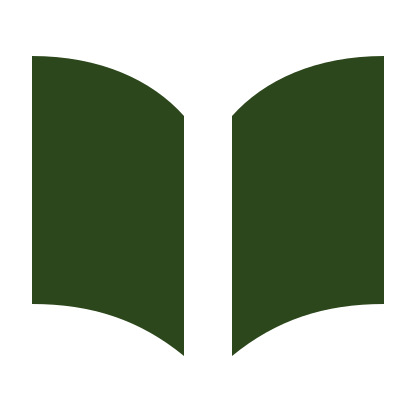
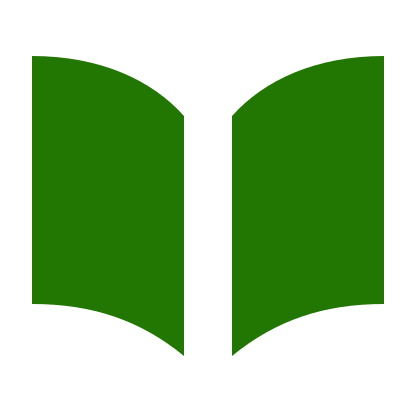
brand: energiza a oliva da marca e limpa metadados de aprovação
A cor da marca acompanha a paleta revisada do site — oliva #227702
(accent claro, croma alto) e reverse #eaece6 — mantendo o concurseiro
alerta; geometria Miolo intacta, alpha dos PNGs byte a byte idêntico.
Os desc dos SVGs perdem a data de aprovação, ruído de processo que não
pertence a assets públicos.

Generated with [Devin](https://devin.ai)

diff --git a/brand/README.md b/brand/README.md
@@ -22,7 +22,8 @@ Os SVGs têm fundo transparente, geometria editável, letras em contornos e
 nenhuma dependência de fontes ou recursos externos. A cor é definida por
 `color` na raiz e aplicada por `currentColor`. Assinatura: `viewBox` de
 568 × 132; símbolo: 104 × 104. Preservar a proporção e todo o respiro dessas
-caixas. Os PNGs são cópias exatas dos apresentados no estudo.
+caixas. Os PNGs são exportações RGBA transparentes dos SVGs canônicos via
+`rsvg-convert` (larguras de 1200 e 416 px).
 
 ## Desenho e procedência
 
@@ -41,29 +42,50 @@ foram preservadas.
 
 | Cor | Hex | Origem |
 | --- | --- | --- |
-| Oliva | `#2c471c` | Conversão sRGB de `accent` claro / `olive-700` |
-| Claro | `#e6ece1` | Conversão sRGB de `ink` escuro |
+| Oliva | `#227702` | Conversão sRGB de `accent` claro / `olive-600`, `oklch(0.5 0.16 140)` |
+| Claro | `#eaece6` | Conversão sRGB de `ink` escuro, `oklch(0.94 0.008 120)` |
 | Preto | `#000000` | Reprodução monocromática |
 
-As pranchas usam papel `#f4f6ee` e fundo escuro `#0d1609`, derivados dos
-respectivos tokens `paper`. Esses fundos não fazem parte dos logos.
+A cor da marca deriva dos tokens do site e é re-derivada quando eles mudam;
+a geometria permanece fixa. A oliva vigorosa acompanha o propósito da paleta:
+manter o concurseiro alerta durante o estudo. O `accent` do tema escuro do
+site converte para `#68d54e` (`oklch(0.78 0.2 140)`) — não é cor dos ativos
+canônicos; em fundos escuros usa-se a versão clara (reverse). Medido em
+sRGB, o contraste da oliva sobre o papel claro é de 5,3:1 e o do claro
+sobre o papel escuro é de 15,4:1.
+
+As pranchas históricas dos estudos usam papel `#f4f6ee` e fundo escuro
+`#0d1609`, conversões dos tokens `paper` da época; os tokens `paper` atuais
+convertem para `#f8f8f5` (claro) e `#10160f` (escuro). Esses fundos não
+fazem parte dos logos.
 O lettering é vetorial próprio, não Source Serif 4. Os rótulos históricos
 nas pranchas usam Inter sob SIL OFL 1.1; nenhum arquivo de fonte é distribuído.
 
 ## Uso e verificações
 
 As [reduções da rodada 02](studies/2026-11-26-round-02/reductions.png)
-mostram Miolo em 16, 24, 32 e 48 px nos fundos claro e escuro. O intervalo
-central permanece visível a 16 px nesta renderização. Para a assinatura,
+mostram Miolo em 16, 24, 32 e 48 px nos fundos claro e escuro — na oliva
+anterior, por serem artefatos históricos. O intervalo central permanece
+visível a 16 px nesta renderização. Para a assinatura,
 manter mínimo provisório de 160 px de largura e preferir 176 px no cabeçalho.
 Manter provisoriamente espaço externo equivalente a metade da altura visível
 do `o`. Esses limites vêm da inspeção em tela; não houve teste com usuários,
 impressão ou integração real no site.
 
+As reduções foram inspecionadas novamente na oliva atual: símbolo a 16, 24,
+32 e 48 px e assinatura a 160 e 176 px, nas versões oliva, reverse e mono,
+sobre os fundos `#f8f8f5` e `#10160f`. A abertura central permanece visível
+e nítida a 16 px — uma coluna transparente contínua de 2 px na rasterização —
+e não foram observadas falhas de contorno nem vazamento de cor na abertura;
+os limites acima não mudaram. O canal alpha dos PNGs regenerados é byte a
+byte idêntico ao das versões anteriores, confirmando que somente a cor mudou.
+
 Foram conferidos XML, caixas, ausência de scripts, eventos, imagens embutidas,
 fontes e recursos externos, identidade da geometria com o estudo e PNGs RGBA
 transparentes. As pranchas existentes foram inspecionadas em temas claro e
 escuro, monocromia e reduções; não foram observados recortes acidentais.
+XML, ausência de scripts, eventos e recursos externos e transparência RGBA
+foram conferidos novamente na re-derivação da cor.
 
 A integração em `web/src/design/components/Logo.astro` e favicons cabe ao
 escriba, usando estes arquivos canônicos e respeitando os tamanhos acima.
